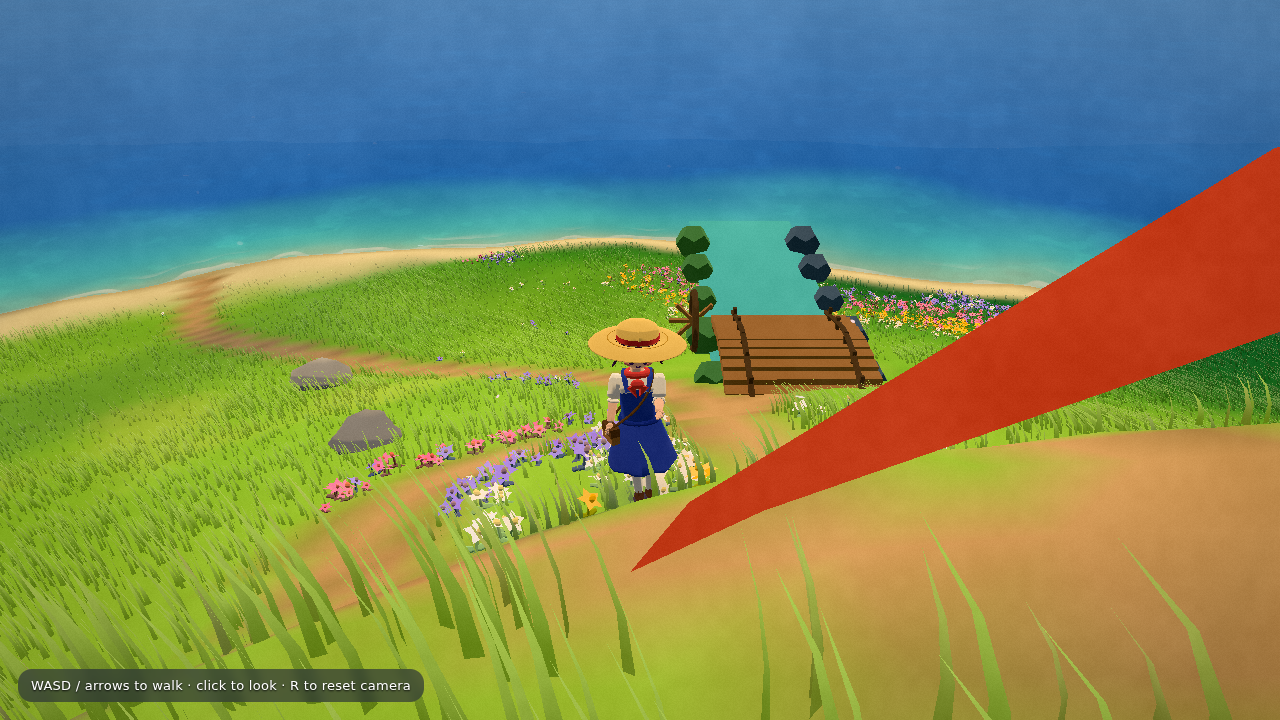
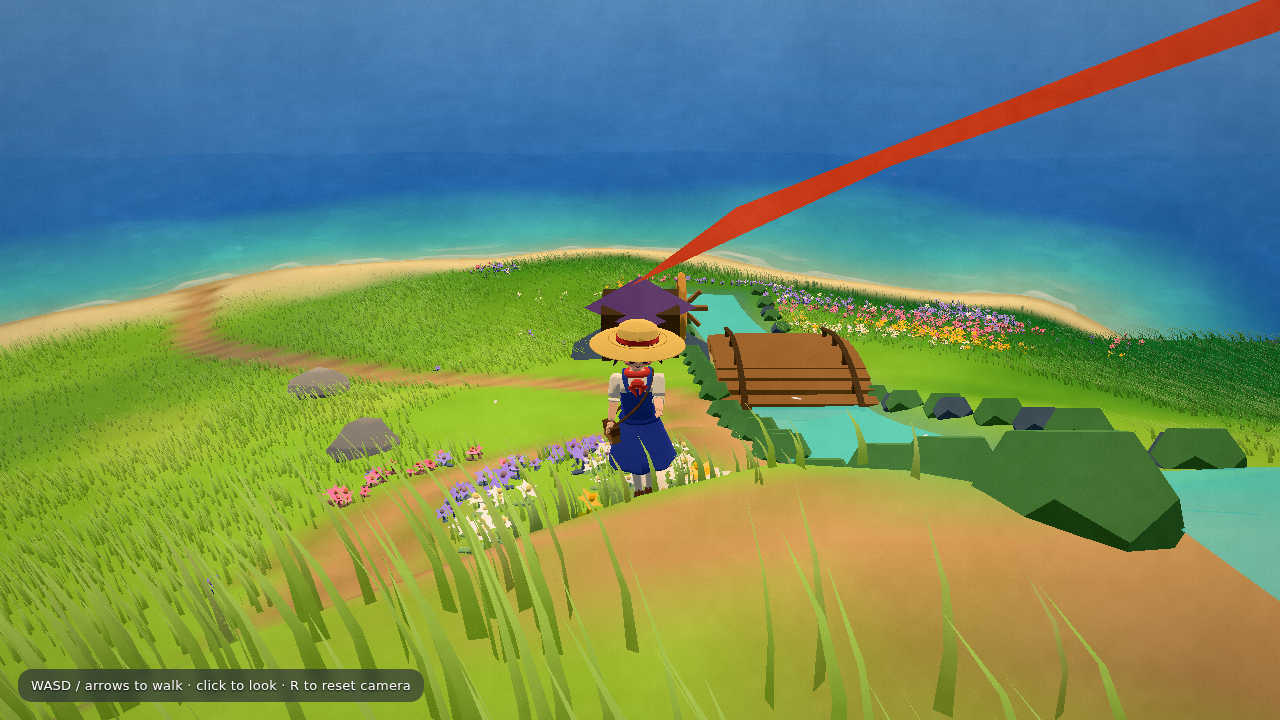
fix: turn bridge and shrine into connected authored destinations

diff --git a/src/models/places.ts b/src/models/places.ts
@@ -20,6 +20,24 @@ const put = (g: THREE.Group, geo: THREE.BufferGeometry, mat: THREE.Material, x: 
   const o = new THREE.Mesh(geo, mat); o.position.set(x, y, z); o.scale.setScalar(scale); o.castShadow = o.receiveShadow = true; g.add(o); return o;
 };
 
+function ribbon(points: [number, number][], width: number, yOffset: number, color: THREE.ColorRepresentation): THREE.Mesh {
+  const shape: number[] = [];
+  for (let i = 0; i < points.length; i++) {
+    const [x, z] = points[i];
+    const [px, pz] = points[Math.max(0, i - 1)], [nx, nz] = points[Math.min(points.length - 1, i + 1)];
+    const d = new THREE.Vector2(nx - px, nz - pz).normalize();
+    const n = new THREE.Vector2(-d.y, d.x).multiplyScalar(width * 0.5);
+    const yl = heightAt(x + n.x, z + n.y) + yOffset;
+    const yr = heightAt(x - n.x, z - n.y) + yOffset + 0.012;
+    shape.push(x + n.x, yl, z + n.y, x - n.x, yr, z - n.y);
+  }
+  const pos: number[] = [], idx: number[] = [];
+  for (let i = 0; i < points.length; i++) pos.push(...shape.slice(i * 6, i * 6 + 6));
+  for (let i = 0; i < points.length - 1; i++) { const a = i * 2; idx.push(a, a + 1, a + 2, a + 1, a + 3, a + 2); }
+  const geo = new THREE.BufferGeometry(); geo.setAttribute('position', new THREE.Float32BufferAttribute(pos, 3)); geo.setIndex(idx); geo.computeVertexNormals();
+  const o = new THREE.Mesh(geo, m(color, 0.2)); o.receiveShadow = true; return o;
+}
+
 function torii(): THREE.Group {
   const g = new THREE.Group();
   const red = m(MAT.vermilion, 0.45), dark = m(MAT.vermilionDark, 0.3);
@@ -38,78 +56,176 @@ function torii(): THREE.Group {
   return g;
 }
 
+function cylinderBetween(a: THREE.Vector3, b: THREE.Vector3, r: number, mat: THREE.Material): THREE.Mesh {
+  const d = b.clone().sub(a), mid = a.clone().add(b).multiplyScalar(0.5);
+  const o = new THREE.Mesh(new THREE.CylinderGeometry(r * 0.92, r, d.length(), 8), mat);
+  o.position.copy(mid); o.quaternion.setFromUnitVectors(new THREE.Vector3(0, 1, 0), d.normalize());
+  o.castShadow = o.receiveShadow = true;
+  return o;
+}
+
+function leafGeometry(): THREE.BufferGeometry {
+  // A pointed lanceolate leaf, with a slight crease in the centre. Not a cone or spike.
+  const g = new THREE.BufferGeometry();
+  g.setAttribute('position', new THREE.Float32BufferAttribute([
+    0, 0, 0, -0.18, 0.26, 0.018, -0.08, 0.68, 0.025, 0, 1.06, 0,
+    0.08, 0.68, 0.025, 0.18, 0.26, 0.018,
+  ], 3));
+  g.setIndex([0, 1, 2, 0, 2, 3, 0, 3, 4, 0, 4, 5]);
+  g.computeVertexNormals();
+  return g;
+}
+
+const bambooLeafGeo = leafGeometry();
+const bambooLeafMat = new THREE.MeshToonMaterial({ color: '#78a957', side: THREE.DoubleSide });
+
+function addBambooLeaf(g: THREE.Group, base: THREE.Vector3, direction: THREE.Vector3, scale: number, mat = bambooLeafMat) {
+  const leaf = new THREE.Mesh(bambooLeafGeo, mat);
+  leaf.position.copy(base);
+  leaf.scale.setScalar(scale);
+  leaf.quaternion.setFromUnitVectors(new THREE.Vector3(0, 1, 0), direction.normalize());
+  leaf.rotation.y += 0.35;
+  leaf.castShadow = leaf.receiveShadow = true;
+  g.add(leaf);
+}
+
 function bamboo(g: THREE.Group, x: number, z: number, h: number, lean: number, seed: number) {
-  const pts = [new THREE.Vector3(x, heightAt(x, z), z), new THREE.Vector3(x + lean * 0.25, heightAt(x, z) + h * 0.35, z + lean * 0.12), new THREE.Vector3(x + lean, heightAt(x, z) + h, z + lean * 0.35)];
-  const stem = new THREE.Mesh(tube(pts, 0.11, 0.06, 8, 10), m(seed % 2 ? MAT.bamboo : MAT.bambooDark, 0.45));
-  stem.castShadow = stem.receiveShadow = true; g.add(stem);
-  for (let i = 1; i < 6; i++) {
-    const t = i / 6; const y = heightAt(x, z) + h * t; const xx = x + lean * t; const zz = z + lean * 0.35 * t;
-    const node = new THREE.Mesh(new THREE.TorusGeometry(0.115 - t * 0.04, 0.018, 5, 8), m(MAT.bambooDark, 0.25)); node.position.set(xx, y, zz); node.rotation.x = Math.PI / 2; g.add(node);
+  const ground = heightAt(x, z);
+  const points: THREE.Vector3[] = [];
+  const segments = 6;
+  for (let i = 0; i <= segments; i++) {
+    const t = i / segments;
+    const sway = Math.sin(t * Math.PI) * lean;
+    points.push(new THREE.Vector3(x + sway, ground + h * t, z + sway * 0.28));
   }
-  const leaves = [
-    [x + lean * 0.85 - 0.5, heightAt(x, z) + h * 0.82, z + lean * 0.25],
-    [x + lean * 0.9 + 0.45, heightAt(x, z) + h * 0.9, z + lean * 0.35],
-    [x + lean * 0.6, heightAt(x, z) + h * 0.98, z + lean * 0.2 + 0.45],
-  ];
-  for (const [lx, ly, lz] of leaves) put(g, new THREE.ConeGeometry(0.33, 1.25, 5), m(MAT.bamboo, 0.5), lx, ly, lz, 1);
+  const culmMat = m(seed % 2 ? '#82aa5a' : '#628e4b', 0.5);
+  const nodeMat = m('#3f6b3c', 0.28);
+  for (let i = 0; i < segments; i++) g.add(cylinderBetween(points[i], points[i + 1], 0.22 - i * 0.018, culmMat));
+  for (let i = 1; i < segments; i++) {
+    const d = points[i + 1].clone().sub(points[i - 1]).normalize();
+    const node = cylinderBetween(points[i].clone().addScaledVector(d, -0.06), points[i].clone().addScaledVector(d, 0.06), 0.24 - i * 0.018, nodeMat);
+    g.add(node);
+    // Two or three leaves per joint, fanning out from a short side branch.
+    if (i >= 2) {
+      const side = (i + seed) % 2 ? 1 : -1;
+      const a = seed * 1.7 + i * 1.9;
+      for (let k = 0; k < 5; k++) {
+        const ang = a + side * (k - 2) * 0.34;
+        const dir = new THREE.Vector3(Math.cos(ang) * (0.62 + k * 0.06), 0.4 + k * 0.1, Math.sin(ang) * (0.62 + k * 0.06));
+        const branchEnd = points[i].clone().add(new THREE.Vector3(dir.x * 0.62, dir.y * 0.32, dir.z * 0.62));
+        g.add(cylinderBetween(points[i], branchEnd, 0.025, nodeMat));
+        addBambooLeaf(g, branchEnd, dir, 1.0 + (seed % 3) * 0.08, k === 1 ? bambooLeafMat : new THREE.MeshToonMaterial({ color: k % 2 ? '#6f9f50' : '#8ab764', side: THREE.DoubleSide }));
+      }
+    }
+  }
 }
 
 export function createBambooShrine(): PlaceLandmark {
   const g = new THREE.Group();
   const x = 30, z = -20, y = heightAt(x, z);
   const grove = new THREE.Group();
-  for (let i = 0; i < 8; i++) {
-    const a = i * 2.399 + 0.3, r = 7.5 + (i % 3) * 0.65;
+  // Bamboo is a frame behind the gate, not a wall in front of it.
+  for (let i = 0; i < 18; i++) {
+    const a = i * 2.399 + 0.3;
+    if (Math.sin(a) < -0.3) continue; // keep the ceremonial approach open
+    const r = 6.2 + (i % 5) * 0.85;
     const bx = x + Math.cos(a) * r, bz = z + Math.sin(a) * r;
-    bamboo(grove, bx, bz, 5.6 + (i % 4) * 0.6, Math.sin(i * 4.2) * 1.2, i);
+    bamboo(grove, bx, bz, 8.0 + (i % 4) * 0.65, Math.sin(i * 4.2) * 0.75, i + 3);
   }
   g.add(grove);
-  const gate = torii(); gate.position.set(x, y, z - 4.2); gate.rotation.y = 0.25; g.add(gate);
-  // small shrine behind the torii, with a blue noren and peaked roof
-  const hut = new THREE.Group(); hut.position.set(x, y + 0.12, z + 2.5); hut.rotation.y = 0.25;
-  put(g, new THREE.CylinderGeometry(2.8, 3.1, 0.28, 10), m(MAT.stoneDark, 0.25), x, y + 0.14, z + 2.5);
-  put(hut, new THREE.BoxGeometry(3.2, 2.0, 2.2), m(MAT.wood, 0.3), 0, 1.0, 0);
-  put(hut, new THREE.BoxGeometry(3.45, 0.18, 2.45), m(MAT.paper, 0.25), 0, 2.1, 0);
-  put(hut, new THREE.ConeGeometry(2.35, 1.25, 4), m(MAT.woodDark, 0.35), 0, 2.75, 0, 1);
-  put(hut, new THREE.BoxGeometry(1.0, 0.75, 0.06), m(MAT.blue, 0.4), 0, 0.72, 1.14);
-  for (const xx of [-1.2, 1.2]) put(hut, new THREE.BoxGeometry(0.12, 1.9, 0.12), m(MAT.woodDark, 0.25), xx, 1.0, 1.14);
+
+  const gate = torii(); gate.position.set(x, y, z - 4.7); gate.rotation.y = 0.04; g.add(gate);
+  // broad stone terrace makes the hut and gate read as one destination
+  put(g, new THREE.CylinderGeometry(3.8, 4.2, 0.3, 12), m(MAT.stoneDark, 0.25), x, y + 0.14, z + 1.9);
+  const hut = new THREE.Group(); hut.position.set(x + 1.25, y + 0.3, z + 2.0);
+  put(hut, new THREE.BoxGeometry(3.7, 2.25, 2.5), m(MAT.wood, 0.3), 0, 1.1, 0);
+  put(hut, new THREE.BoxGeometry(4.05, 0.18, 2.8), m(MAT.paper, 0.25), 0, 2.28, 0);
+  put(hut, new THREE.ConeGeometry(2.7, 1.45, 4), m('#574c65', 0.4), 0, 3.05, 0);
+  put(hut, new THREE.SphereGeometry(0.16, 10, 8), m('#ffb35c', 0.7), -1.0, 1.35, 1.38);
+  put(hut, new THREE.BoxGeometry(1.1, 0.85, 0.06), m(MAT.blue, 0.4), 0, 0.82, 1.29);
+  for (const xx of [-1.4, 1.4]) put(hut, new THREE.BoxGeometry(0.13, 2.1, 0.13), m(MAT.woodDark, 0.25), xx, 1.1, 1.29);
   g.add(hut);
-  // offering basin and stepping stones
-  put(g, new THREE.CylinderGeometry(0.65, 0.8, 0.42, 8), m(MAT.stone, 0.25), x - 3.2, y + 0.22, z + 2.4);
-  put(g, new THREE.CylinderGeometry(0.55, 0.7, 0.14, 8), m(MAT.moss, 0.45), x - 3.2, y + 0.49, z + 2.4);
-  for (let i = 0; i < 7; i++) put(g, new THREE.DodecahedronGeometry(0.38, 0), m(i % 2 ? MAT.stoneDark : MAT.stone, 0.3), x, y + 0.12, z - 9 + i * 1.0, 1.1);
-  return { group: g, focus: new THREE.Vector3(x, y + 2.2, z), name: 'Bamboo Shrine' };
+  // The path is a straight ceremonial approach: torii -> basin -> hut.
+  const approach: [number, number][] = [[x, z - 14], [x, z - 11], [x, z - 8], [x, z - 5], [x, z - 2], [x, z + 1]];
+  g.add(ribbon(approach, 1.7, 0.03, '#9a7958'));
+  for (let i = 0; i < approach.length; i++) put(g, new THREE.DodecahedronGeometry(0.34, 0), m(i % 2 ? MAT.stoneDark : MAT.stone, 0.3), approach[i][0], heightAt(approach[i][0], approach[i][1]) + 0.12, approach[i][1], 1.1);
+  // offering basin, two small lanterns, and a warm focal light
+  put(g, new THREE.CylinderGeometry(0.72, 0.88, 0.5, 8), m(MAT.stone, 0.25), x - 2.3, y + 0.25, z + 0.3);
+  put(g, new THREE.CylinderGeometry(0.58, 0.7, 0.12, 8), m(MAT.moss, 0.45), x - 2.3, y + 0.56, z + 0.3);
+  for (const sx of [-2.9, 2.9]) {
+    put(g, new THREE.CylinderGeometry(0.14, 0.18, 1.0, 7), m(MAT.stone, 0.25), x + sx, y + 0.62, z + 0.4);
+    put(g, new THREE.ConeGeometry(0.42, 0.3, 6), m(MAT.stoneDark, 0.3), x + sx, y + 1.25, z + 0.4);
+  }
+  return { group: g, focus: new THREE.Vector3(x, y + 2.4, z), name: 'Bamboo Shrine' };
 }
 
 function bridgeMesh(): THREE.Group {
   const g = new THREE.Group();
   const wood = m(MAT.bridge, 0.35), dark = m(MAT.bridgeDark, 0.25);
-  // deck planks run across the stream, raised in a gentle arch along +Z
+  // The bridge is aligned across a real north-south stream, with landings at z +/- 4.
   for (let i = -5; i <= 5; i++) {
-    const z = i * 0.58, arch = 0.55 * (1 - (z / 3.0) ** 2);
-    put(g, new THREE.BoxGeometry(4.8, 0.32, 0.5), wood, 0, arch + 0.72, z);
+    const z = i * 0.62, arch = 0.7 * (1 - (z / 3.2) ** 2);
+    put(g, new THREE.BoxGeometry(4.8, 0.34, 0.58), wood, 0, arch + 0.8, z);
   }
-  for (const x of [-1.65, 1.65]) {
-    const pts = [new THREE.Vector3(x, 1.1, -3), new THREE.Vector3(x, 1.75, 0), new THREE.Vector3(x, 1.1, 3)];
-    const r = new THREE.Mesh(tube(pts, 0.1, 0.08, 7, 12), dark); r.castShadow = true; g.add(r);
-    for (let i = -2; i <= 2; i++) put(g, new THREE.BoxGeometry(0.12, 0.65, 0.12), dark, x, 1.08 + 0.45 * (1 - (i / 2.5) ** 2), i * 1.18);
+  // two continuous curved handrails, plus posts planted into the deck
+  for (const x of [-1.75, 1.75]) {
+    const pts = [new THREE.Vector3(x, 1.28, -3.4), new THREE.Vector3(x, 1.92, -1.5), new THREE.Vector3(x, 2.08, 0), new THREE.Vector3(x, 1.92, 1.5), new THREE.Vector3(x, 1.28, 3.4)];
+    const r = new THREE.Mesh(tube(pts, 0.11, 0.075, 8, 16), dark); r.castShadow = true; g.add(r);
+    for (const z of [-3.0, -1.5, 0, 1.5, 3.0]) { const arch = 0.7 * (1 - (z / 3.2) ** 2); put(g, new THREE.BoxGeometry(0.14, 0.75, 0.14), dark, x, arch + 1.0, z); }
   }
   return g;
 }
 
+function streamRibbon(x: number, z: number, length: number, width: number): THREE.Mesh {
+  const pts: [number, number][] = [];
+  const n = 18;
+  for (let i = 0; i < n; i++) {
+    const t = i / (n - 1), zz = z - length * 0.5 + t * length;
+    pts.push([x + Math.sin(t * Math.PI * 2.4) * 0.8, zz]);
+  }
+  const water = ribbon(pts, width, 0.1, MAT.water);
+  water.material = new THREE.MeshBasicMaterial({ color: '#70d6cf', transparent: true, opacity: 0.78, depthWrite: false, side: THREE.DoubleSide });
+  return water;
+}
+
 export function createMoonbridge(): PlaceLandmark {
   const g = new THREE.Group(); const x = 2, z = 24, y = heightAt(x, z);
-  // stream: a shallow blue ribbon plus mossy banks and stones
-  const stream = m(MAT.water, 0.5);
-  const water = new THREE.Mesh(new THREE.PlaneGeometry(9, 30, 1, 12), stream); water.rotation.x = -Math.PI / 2; water.position.set(x, y - 0.18, z + 1); water.scale.x = 0.55; water.receiveShadow = true; g.add(water);
-  for (const side of [-1, 1]) {
-    for (let i = -4; i <= 4; i++) put(g, new THREE.DodecahedronGeometry(0.55 + (i + 4) % 3 * 0.1, 0), m(side > 0 ? MAT.moss : MAT.stoneDark, 0.35), x + side * 2.5, y + 0.1, z + i * 3.1, 1.1);
-  }
+  // A continuous ribbon leaves both bridge ends and bends toward visible banks.
+  g.add(streamRibbon(x, z, 46, 3.4));
+  // Two dark wet banks and thin moving-looking highlights give the water a channel, not a blue plane.
+  const bankLine = (side: number) => { const pts: [number, number][] = []; for (let i = 0; i < 18; i++) { const t = i / 17, zz = z - 23 + t * 46; pts.push([x + Math.sin((zz / 23) * Math.PI * 1.2) * 0.8 + side * 2.0, zz]); } return pts; };
+  g.add(ribbon(bankLine(-1), 0.72, 0.05, '#6f6958'));
+  g.add(ribbon(bankLine(1), 0.72, 0.05, '#6f6958'));
+  for (const off of [-0.75, 0.65]) { const pts: [number, number][] = []; for (let i = 0; i < 10; i++) { const t = i / 9; const zz = z - 20 + t * 40; pts.push([x + Math.sin((zz / 23) * Math.PI * 1.2) * 0.8 + off, zz]); } g.add(ribbon(pts, 0.045, 0.14, '#c3f0d3')); }
+  // banks: dark damp soil just outside water, then mossy stones sampled to the terrain
+  const bankPts: [number, number][] = [];
+  for (let i = 0; i < 18; i++) { const t = i / 17, zz = z - 23 + t * 46; bankPts.push([x - 2.5, zz]); bankPts.push([x + 2.5, zz]); }
+  for (const [bx, bz] of bankPts) put(g, new THREE.DodecahedronGeometry(0.52, 0), m(MAT.moss, 0.38), bx, heightAt(bx, bz) + 0.02, bz, 1.1);
   const bridge = bridgeMesh(); bridge.position.set(x, y, z); g.add(bridge);
-  // waterwheel silhouette on the east bank
-  const wheel = new THREE.Group(); wheel.position.set(x + 3.0, y + 0.6, z + 3.3);
-  const disc = new THREE.Mesh(new THREE.TorusGeometry(1.05, 0.12, 7, 14), m(MAT.bridgeDark, 0.3)); disc.rotation.y = Math.PI / 2; wheel.add(disc);
-  for (let i = 0; i < 8; i++) put(wheel, new THREE.BoxGeometry(0.12, 1.8, 0.16), m(MAT.bridge, 0.25), 0, 0, 0, 1);
-  wheel.children.slice(1).forEach((o, i) => o.rotation.z = i * Math.PI / 4); g.add(wheel);
-  return { group: g, focus: new THREE.Vector3(x, y + 1.5, z), name: 'Moonbridge Stream' };
+  const rampMat = m('#a97a4f', 0.3);
+  for (const side of [-1, 1]) for (let i = 0; i < 4; i++) {
+    const t = i / 3, rz = z + side * (3.35 + i * 0.48), ry = y + 0.76 - t * 0.58;
+    put(g, new THREE.BoxGeometry(4.7 - i * 0.25, 0.18, 0.46), rampMat, x, ry, rz);
+  }
+  // path ribbons land on both ends and continue to the existing meadow paths
+  g.add(ribbon([[x, z - 14], [x - 0.3, z - 9], [x, z - 4]], 2.6, 0.06, '#a78561'));
+  g.add(ribbon([[x, z + 4], [x + 1.6, z + 10], [x + 5, z + 15]], 2.6, 0.06, '#a78561'));
+  for (const side of [-1, 1]) for (let i = -5; i <= 5; i++) {
+    const rz = z + i * 3.7, rx = x + side * 2.4;
+    put(g, new THREE.DodecahedronGeometry(0.46, 0), m(side > 0 ? MAT.moss : MAT.stoneDark, 0.35), rx, heightAt(rx, rz) + 0.04, rz, 1.05);
+  }
+  // A small mill shed beyond the north landing gives the bridge a reason to exist.
+  const mill = new THREE.Group(); mill.position.set(x + 4.8, heightAt(x + 4.8, z + 10) + 0.12, z + 10);
+  put(g, new THREE.CylinderGeometry(3.0, 3.3, 0.22, 10), m(MAT.stoneDark, 0.25), x + 4.8, heightAt(x + 4.8, z + 10) + 0.11, z + 10);
+  put(mill, new THREE.BoxGeometry(3.4, 2.5, 2.8), m(MAT.bridgeDark, 0.3), 0, 1.25, 0);
+  put(mill, new THREE.ConeGeometry(2.5, 1.5, 4), m('#74566f', 0.35), 0, 2.95, 0);
+  put(mill, new THREE.BoxGeometry(0.8, 1.0, 0.08), m('#d9a85e', 0.5), 0, 0.9, 1.14);
+  put(mill, new THREE.CylinderGeometry(0.09, 0.09, 1.8, 8), m('#e6bf73', 0.45), -1.35, 1.2, 1.14);
+  put(mill, new THREE.SphereGeometry(0.18, 10, 8), m('#ffb35c', 0.6), -1.35, 2.15, 1.14);
+  const wheel = new THREE.Group(); wheel.position.set(-1.9, 1.45, 1.55);
+  const disc = new THREE.Mesh(new THREE.TorusGeometry(1.5, 0.18, 7, 18), m('#d19b59', 0.4)); disc.rotation.y = Math.PI / 2; wheel.add(disc);
+  put(mill, new THREE.BoxGeometry(0.7, 1.0, 0.08), m('#f0c36b', 0.55), 0, 1.15, 1.43);
+  for (let i = 0; i < 8; i++) { const paddle = put(wheel, new THREE.BoxGeometry(0.18, 2.45, 0.22), m(MAT.bridge, 0.25), 0, 0, 0); paddle.rotation.z = i * Math.PI / 4; }
+  mill.add(wheel); g.add(mill);
+  return { group: g, focus: new THREE.Vector3(x, y + 1.6, z), name: 'Moonbridge Stream' };
 }

diff --git a/src/world/terrain.ts b/src/world/terrain.ts
@@ -24,7 +24,7 @@ const PATH_POINTS = [
   [36, 52], [30, 40], [19, 33], [9, 27], [5, 19], [11, 12], [9, 5], [3, 2],
 ].map(([x, z]) => new THREE.Vector3(x, 0, z));
 // Discovery paths: the teahouse junction branches to the stream and bamboo shrine.
-const BRIDGE_PATH_POINTS = [[3, 2], [5, 9], [5, 16], [2, 24]].map(([x, z]) => new THREE.Vector3(x, 0, z));
+const BRIDGE_PATH_POINTS = [[3, 2], [5, 9], [5, 16], [2, 24], [2, 30], [4, 36], [6, 39]].map(([x, z]) => new THREE.Vector3(x, 0, z));
 const SHRINE_PATH_POINTS = [[9, 5], [15, 1], [21, -8], [30, -20]].map(([x, z]) => new THREE.Vector3(x, 0, z));
 // Side path to the cliff lookout.
 const LOOKOUT_POINTS = [
@@ -45,6 +45,9 @@ export const PATH = sampleCurve(PATH_POINTS, 220);
 export const LOOKOUT_PATH = sampleCurve(LOOKOUT_POINTS, 80);
 export const BRIDGE_PATH = sampleCurve(BRIDGE_PATH_POINTS, 130);
 export const SHRINE_PATH = sampleCurve(SHRINE_PATH_POINTS, 150);
+
+function streamCenter(z: number): number { return 2 + Math.sin((z / 23) * Math.PI * 1.2) * 0.8; }
+function streamDistance(x: number, z: number): number { return Math.abs(x - streamCenter(z)); }
 
 function distToPolyline(poly: Float32Array, x: number, z: number): number {
   let best = 1e9;
@@ -125,6 +128,8 @@ function bake() {
       pd = Math.min(pd, distToPolyline(BRIDGE_PATH, x, z), distToPolyline(SHRINE_PATH, x, z));
       pathDist[idx(i, j)] = pd;
       h -= 0.12 * smoothstep(1.6, 0.4, pd);
+      // Carve a shallow, winding stream bed from the upper mill to the low meadow.
+      if (z > 0 && z < 48) h -= 0.72 * smoothstep(3.6, 0.35, streamDistance(x, z));
       heights[idx(i, j)] = h;
     }
   }
@@ -214,6 +219,15 @@ export function surfaceAt(x: number, z: number): { color: THREE.Color; kind: Sur
     c.lerp(tmpRock, rockT);
     grassiness *= 1 - rockT;
     if (rockT > 0.5) kind = 'rock';
+  }
+
+  // Stream bed: water colour and no grass inside the carved channel.
+  const streamD = streamDistance(x, z);
+  if (z > 0 && z < 48 && streamD < 3.4) {
+    const waterT = smoothstep(3.4, 1.25, streamD);
+    c.lerp(C.seabed, waterT * 0.7);
+    grassiness *= 1 - waterT;
+    if (waterT > 0.65) kind = 'water';
   }
 
   // Worn dirt path with grassy, irregular edges.

diff --git a/src/main.ts b/src/main.ts
@@ -240,8 +240,8 @@ const presets: Record<string, [THREE.Vector3, THREE.Vector3]> = {
   cornerlow: [house.group.localToWorld(new THREE.Vector3(9.5, 2.2, 9.0)), house.group.localToWorld(new THREE.Vector3(5.2, 3.9, 3.8))],
   tip: [house.group.localToWorld(new THREE.Vector3(5.2, 3.6, 11.5)), house.group.localToWorld(new THREE.Vector3(5.6, 4.1, 4.6))],
   // high reveal camera: the shrine sits on the eastern shoulder; stay above the intervening ridge
-  shrine: [new THREE.Vector3(shrine.focus.x + 10, shrine.focus.y + 16, shrine.focus.z - 20), new THREE.Vector3(shrine.focus.x, shrine.focus.y + 0.8, shrine.focus.z)],
-  bridge: [new THREE.Vector3(bridge.focus.x + 8, bridge.focus.y + 4.2, bridge.focus.z + 10), bridge.focus],
+  shrine: [new THREE.Vector3(shrine.focus.x + 10, shrine.focus.y + 6.5, shrine.focus.z - 17), new THREE.Vector3(shrine.focus.x + 0.4, shrine.focus.y + 2.4, shrine.focus.z - 1.2)],
+  bridge: [new THREE.Vector3(bridge.focus.x - 15, bridge.focus.y + 9, bridge.focus.z - 15), new THREE.Vector3(bridge.focus.x + 3.5, bridge.focus.y + 1.8, bridge.focus.z + 10)],
 };
 HERO_TREE.y = heightAt(HERO_TREE.x, HERO_TREE.z);
 presets.tree = [new THREE.Vector3(HERO_TREE.x + 13, HERO_TREE.y + 3, HERO_TREE.z + 17), new THREE.Vector3(HERO_TREE.x - 4, HERO_TREE.y + 5.5, HERO_TREE.z - 2)];

diff --git a/src/world/grass.ts b/src/world/grass.ts
@@ -50,8 +50,12 @@ export function createGrass(count = 140000, radius = 78) {
     const surf = surfaceAt(x, z);
     // authored clearings keep the shrine/bridge silhouettes readable from their reveal shots
     const shrineClear = Math.hypot(x - 30, z + 20) < 9;
-    const bridgeClear = Math.hypot(x - 2, z - 24) < 7;
-    if (shrineClear || bridgeClear) continue;
+    const bridgeClear = Math.hypot(x - 2, z - 24) < 12;
+    // reserve the stream's full visual corridor; the banks will be authored geometry
+    const streamZ = z - 24;
+    const streamCentre = 2 + Math.sin((streamZ / 23) * Math.PI * 1.2) * 0.8;
+    const streamClear = z > 0 && z < 48 && Math.abs(x - streamCentre) < 3.1;
+    if (shrineClear || bridgeClear || streamClear) continue;
     // clumpy density: meadows have thick and thin patches
     const clump = fbm2(x * 0.15 + 5, z * 0.15 - 3, 3);
     const keep = surf.grassiness * (0.35 + 0.9 * smoothstep(0.3, 0.6, clump));

diff --git a/src/world/life.ts b/src/world/life.ts
@@ -55,6 +55,9 @@ export function createFlowers(count: number) {
     const x = (rand() - 0.5) * 150, z = (rand() - 0.5) * 150;
     const s = surfaceAt(x, z);
     if (s.kind !== 'grass' || s.grassiness < 0.6) continue;
+    const bridgeClear = Math.hypot(x - 2, z - 24) < 12;
+    const streamClear = z > 0 && z < 48 && Math.abs(x - (2 + Math.sin((z / 23) * Math.PI * 1.2) * 0.8)) < 3.2;
+    if (bridgeClear || streamClear) continue;
     // clumps: low-frequency noise picks meadow patches; edges of path and house get extra
     const clump = fbm2(x * 0.09 + 31, z * 0.09 - 17, 3);
     const pd = pathDistAt(x, z);
